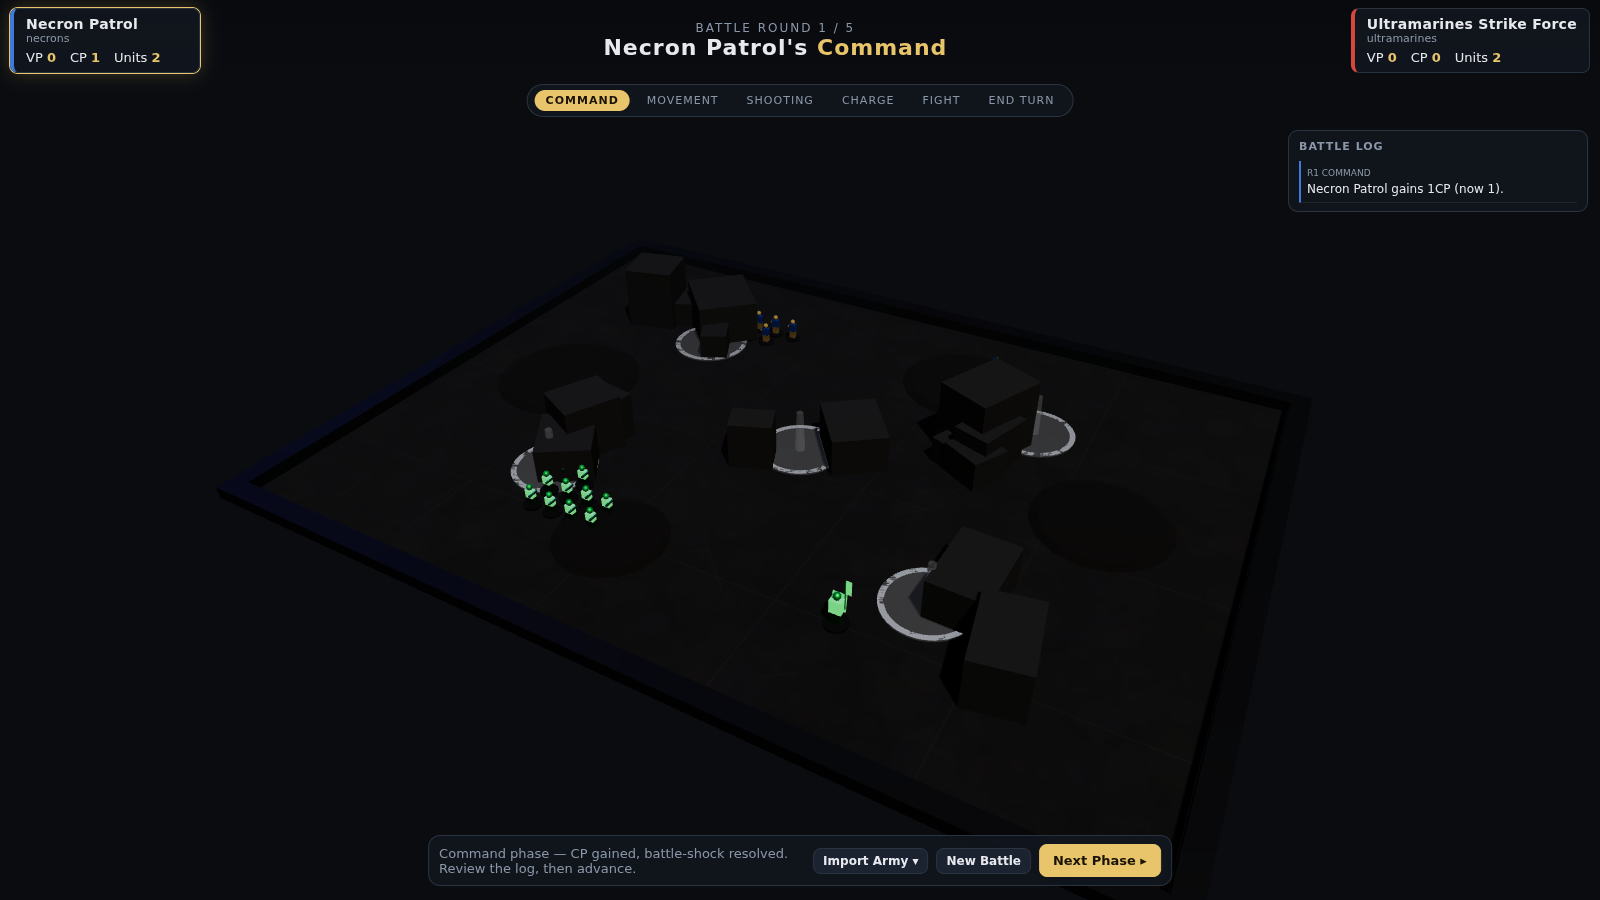
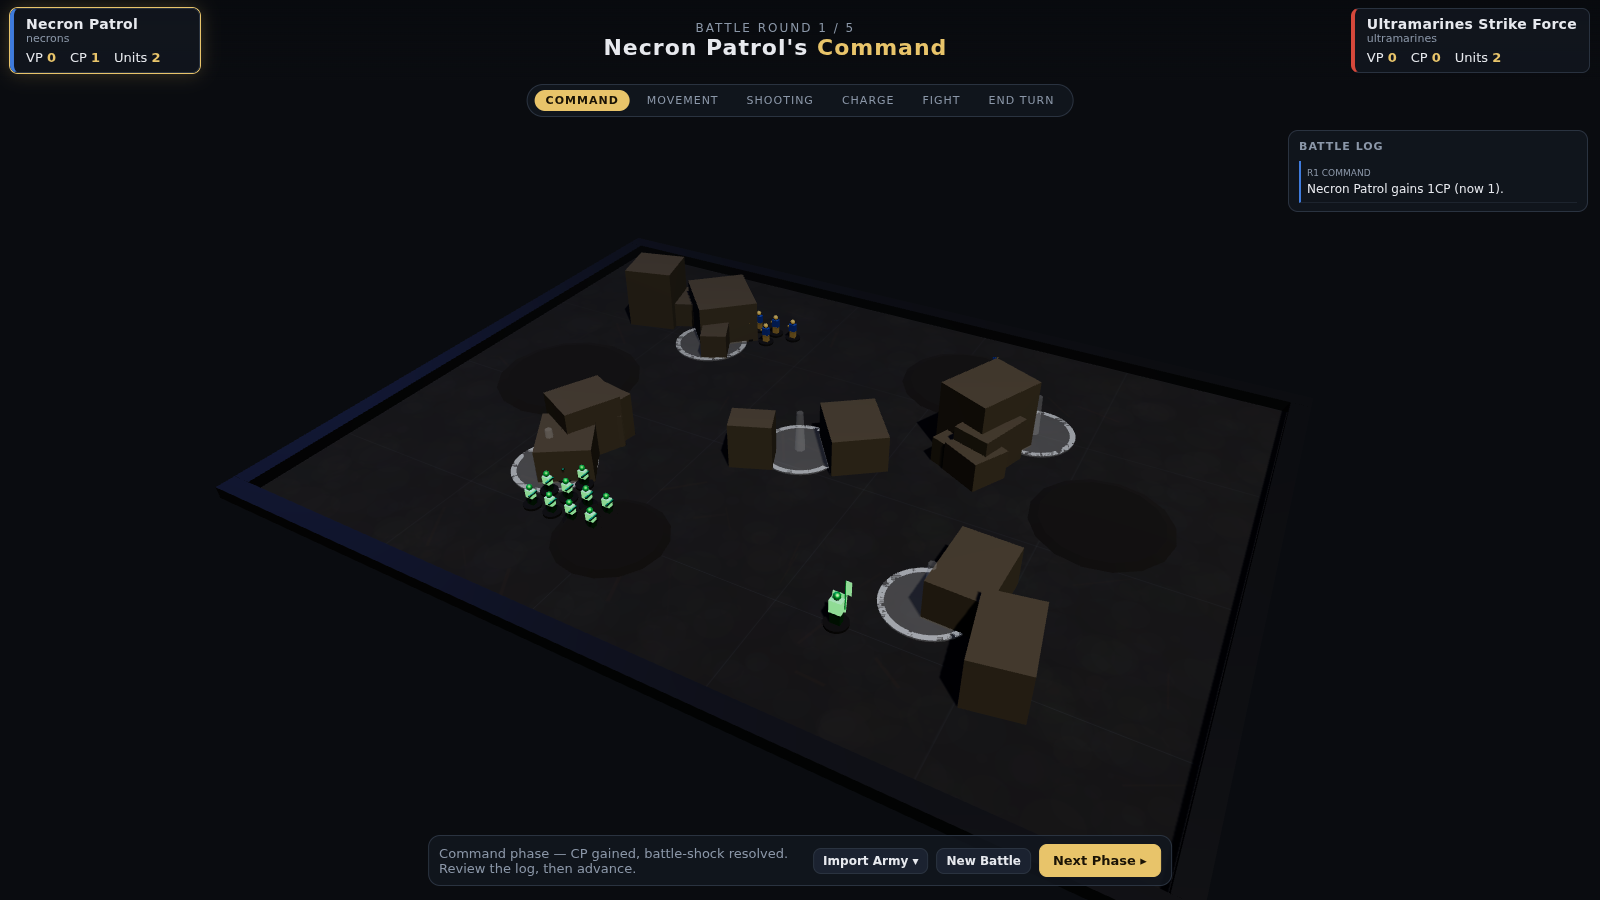
Polish battlefield lighting and terrain readability
Claude-Session: https://claude.ai/code/session_017cP5UXbtBHAKPfxjZDVjCB

diff --git a/src/render/ThreeScene.ts b/src/render/ThreeScene.ts
@@ -138,7 +138,7 @@ export class ThreeScene implements SceneController {
     this.renderer.setPixelRatio(Math.min(window.devicePixelRatio, 2));
     this.renderer.setSize(container.clientWidth || 800, container.clientHeight || 600);
     this.renderer.toneMapping = THREE.ACESFilmicToneMapping;
-    this.renderer.toneMappingExposure = 1.05;
+    this.renderer.toneMappingExposure = 1.25;
     this.renderer.outputColorSpace = THREE.SRGBColorSpace;
     this.renderer.shadowMap.enabled = true;
     this.renderer.shadowMap.type = THREE.PCFSoftShadowMap;
@@ -186,11 +186,11 @@ export class ThreeScene implements SceneController {
 
   private setupLights(): void {
     // Hemisphere fill: cold sky, warm-ish ground bounce, kept dim for grimdark.
-    const hemi = new THREE.HemisphereLight(0x556077, 0x14110d, 0.55);
+    const hemi = new THREE.HemisphereLight(0x6c7a96, 0x201a12, 0.9);
     this.scene.add(hemi);
 
     // Key directional light with shadows — raking angle for drama.
-    const key = new THREE.DirectionalLight(0xfff2d8, 2.1);
+    const key = new THREE.DirectionalLight(0xfff2d8, 2.7);
     key.position.set(this.board.width * 0.4, this.board.width * 0.9, this.board.height * 0.5);
     key.castShadow = true;
     key.shadow.mapSize.set(2048, 2048);
@@ -207,7 +207,7 @@ export class ThreeScene implements SceneController {
     this.scene.add(key);
 
     // Subtle cold fill from the opposite side, no shadows.
-    const fill = new THREE.DirectionalLight(0x4a6cff, 0.35);
+    const fill = new THREE.DirectionalLight(0x6a86ff, 0.6);
     fill.position.set(-this.board.width * 0.5, this.board.width * 0.4, -this.board.height * 0.4);
     this.scene.add(fill);
   }
@@ -334,9 +334,9 @@ export class ThreeScene implements SceneController {
     const { width, height } = this.board;
 
     const ruinMat = new THREE.MeshStandardMaterial({
-      color: 0x2a2c30,
-      roughness: 0.85,
-      metalness: 0.15,
+      color: 0x4a4438,
+      roughness: 0.82,
+      metalness: 0.18,
     });
     const craterMat = new THREE.MeshStandardMaterial({
       color: 0x101013,
